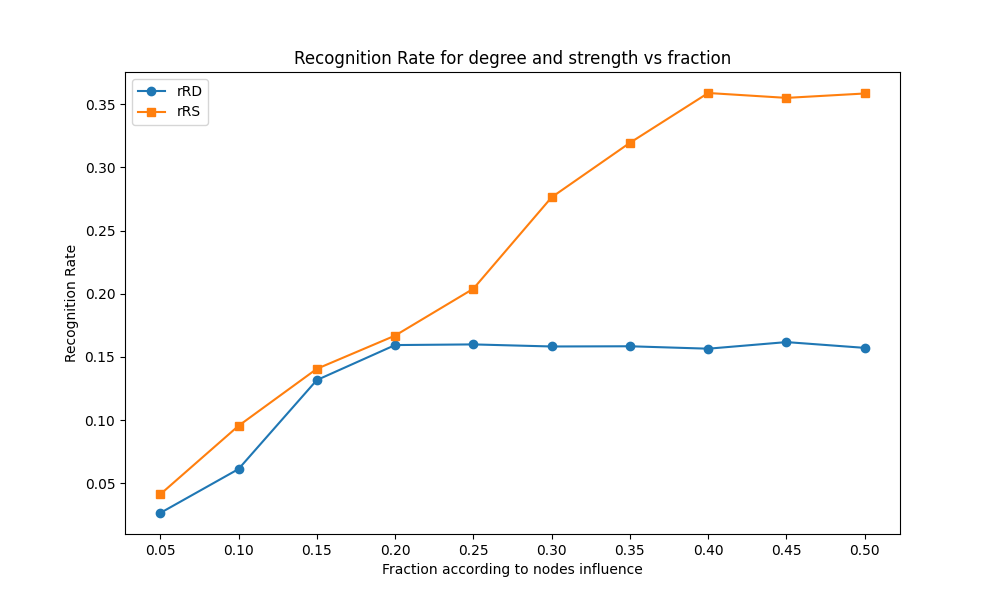
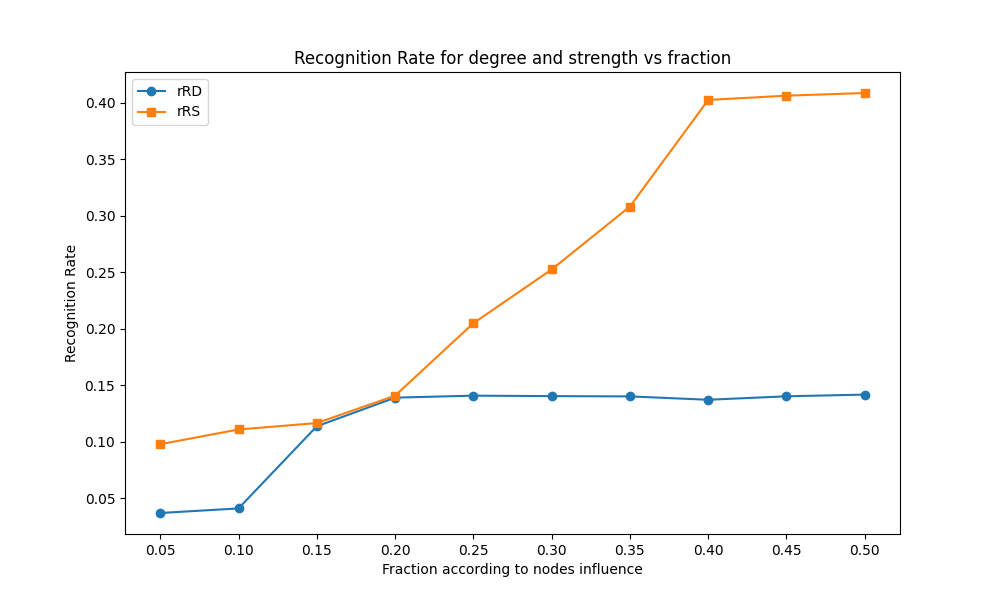
Fixed inconsistency in node weight calculation

diff --git a/main.py b/main.py
@@ -4,6 +4,7 @@ import random
 
 file_name = "data/infectious_hypergraph.dat"
 beta = 0.6  # probability to infect
+# TODO: theta is integer number representing the number of nodes that must be infected to start infection of hyperlink
 theta = 0.3  # minimum percentage of infectious nodes to start infection
 
 
@@ -158,9 +159,9 @@ def calculate_nodes_by_degree(hyperlinks, nodes):
     degrees = {node: 0 for node in nodes}
     used_hyperlinks = set()
     for hyperlink in hyperlinks:
-        if tuple(hyperlink) not in used_hyperlinks:
+        if tuple(sorted(hyperlink)) not in used_hyperlinks:
             for node in hyperlink:
-                degrees[node] += 1
+                degrees[node] += (len(hyperlink) - 1)
             used_hyperlinks.add(tuple(sorted(hyperlink)))
 
     sorted_grouped = {}
@@ -177,7 +178,7 @@ def calculate_nodes_by_weight(hyperlinks, nodes):
     weight_by_hyperlink = {}
     for hyperlink in hyperlinks:
         if tuple(sorted(hyperlink)) in weight_by_hyperlink:
-            weight_by_hyperlink[tuple(sorted(hyperlink))] = weight_by_hyperlink[tuple(sorted(hyperlink))] + 1
+            weight_by_hyperlink[tuple(sorted(hyperlink))] += (len(hyperlink) - 1)
         else:
             weight_by_hyperlink[tuple(sorted(hyperlink))] = 1
 
@@ -409,15 +410,15 @@ if __name__ == "__main__":
     infected_nodes_by_timestamp, sorted_infected_nodes, not_map = get_infected_nodes_by_timestamp(
         hyperlinks_by_timestamp, list(nodes), 0.8)
 
-    # plot_average_infected_with_error_bars(infected_nodes_by_timestamp)
+    plot_average_infected_with_error_bars(infected_nodes_by_timestamp)
 
-    # plot_infected_nodes_by_seed(not_map, "9")
+    plot_infected_nodes_by_seed(not_map, "9")
 
     hyperlinks = [inner for outer in hyperlinks_by_timestamp.values() for inner in outer]
 
-    # centrality(nodes, hyperlinks, sorted_infected_nodes, hyperlinks_by_timestamp, "10")
+    centrality(nodes, hyperlinks, sorted_infected_nodes, hyperlinks_by_timestamp, "10")
 
-    # centrality(nodes, hyperlinks, sorted_infected_nodes, hyperlinks_by_timestamp, "11")
+    centrality(nodes, hyperlinks, sorted_infected_nodes, hyperlinks_by_timestamp, "11")
 
     infected_nodes_by_timestamp_r_star, sorted_infected_nodes_r_star, not_map_r_star = get_infected_nodes_by_timestamp(
         hyperlinks_by_timestamp, list(nodes), 0.1)
